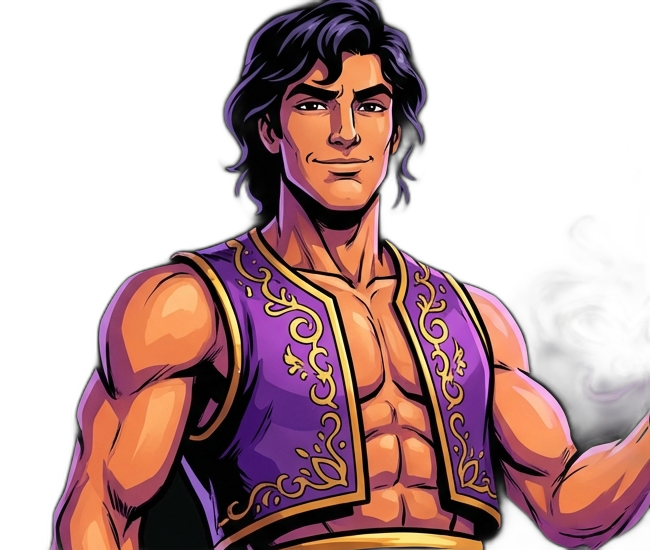
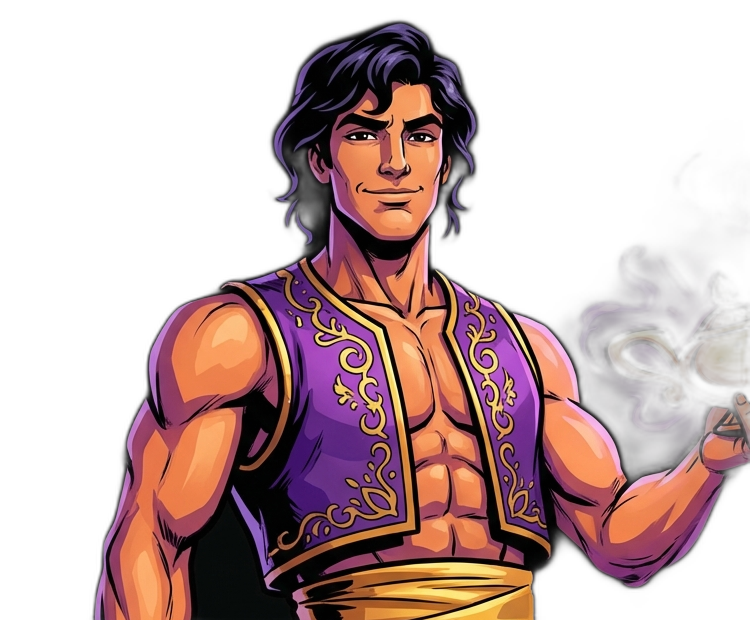
Fix mascot images: more headroom, adjust positioning

diff --git a/aladdin.html b/aladdin.html
@@ -546,7 +546,7 @@ https://example.com/page/3"></textarea>
   </script>
 <!-- Aladdin mascot -->
 <div style="position:fixed; bottom:0; right:0; height:300px; width:200px; z-index:9999; pointer-events:none; overflow:hidden;">
-<img src="wallpapers/images/aladdin_bustup.png" style="height:400px; position:absolute; bottom:-200px; right:0;" alt="Aladdin">
+<img src="wallpapers/images/aladdin_bustup.png" style="height:350px; position:absolute; bottom:-150px; right:10px;" alt="Aladdin">
 </div>
 </body>
 </html>

diff --git a/index.html b/index.html
@@ -93,7 +93,7 @@
   <script src="static/js/app.js"></script>
 <!-- Genie mascot -->
 <div style="position:fixed; bottom:0; right:0; height:300px; width:200px; z-index:9999; pointer-events:none; overflow:hidden;">
-<img src="wallpapers/images/genie_bustup.png" style="height:400px; position:absolute; bottom:-200px; right:0;" alt="Genie">
+<img src="wallpapers/images/genie_bustup.png" style="height:350px; position:absolute; bottom:-150px; right:10px;" alt="Genie">
 </div>
 </body>
 </html>
